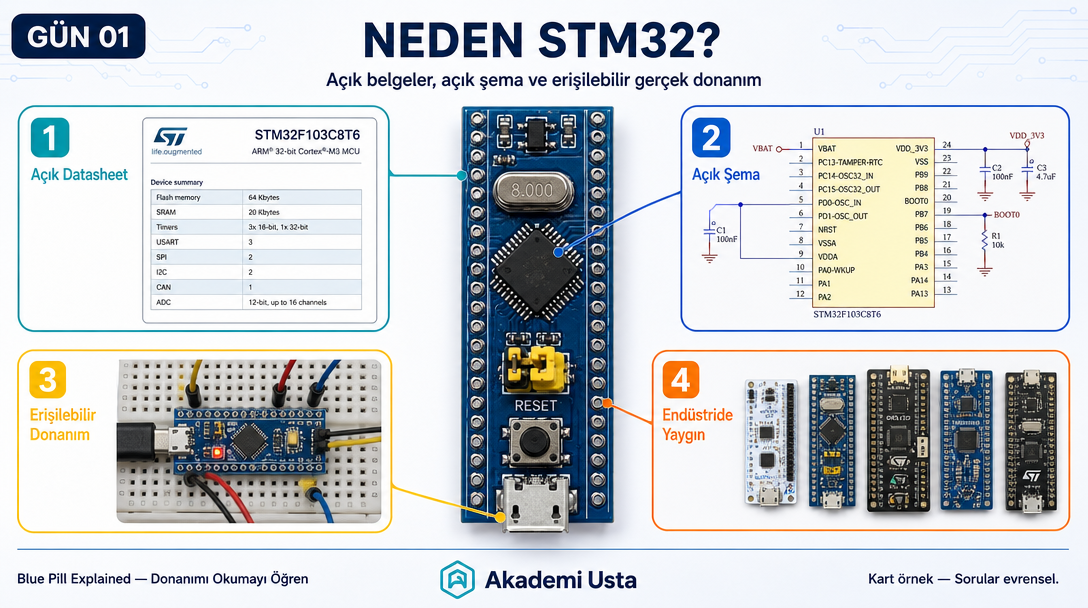
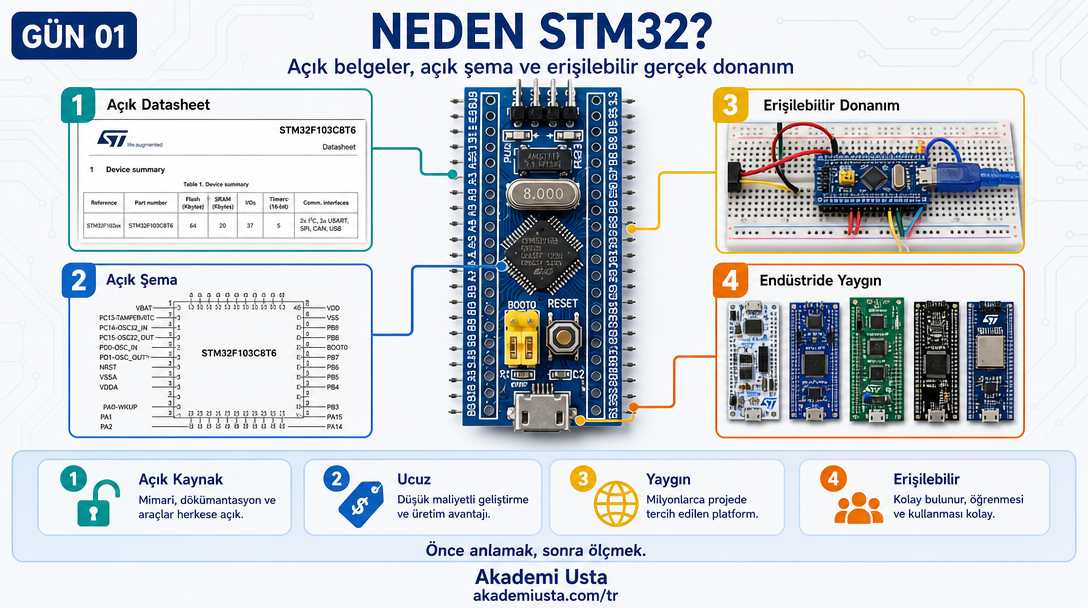
Complete Day 01: approve scene-03/scene-04, finalize footer standard
- Regenerate scene-02 referencing hero.png directly (previous version
  chained off an earlier scene and inherited a rendering defect where
  the top voltage-regulator IC looked like a flat/burnt blob)
- Generate and approve scene-03 (Blue Pill'in İçinde Ne Var?) and
  scene-04 (Tek Sayfalık Açık Şema), both referencing hero.png directly
- Land on the final footer format after two iterations: one single row,
  three parts evenly balanced — left "Akademi Usta", center "Önce
  anlamak, sonra ölçmek.", right "akademiusta.com/tr", text only, no
  logo (these slides get shared widely, the link is free advertising)
- Embed scene-03/04 into 01-neden-bu-kart/README.md
- Update master-style-prompt.md and the curriculum-slide-gen skill to
  reflect the converged rules: always reference approved-day01.png
  directly (never chain through a prior scene), single-row 3-part
  footer, Bölüm 01 as the reference implementation for future chapters

Day 01 is now fully complete: hero + 3 scenes, all approved.

diff --git a/01-neden-bu-kart/prompts/03-blue-pill-icinde-ne-var.md b/01-neden-bu-kart/prompts/03-blue-pill-icinde-ne-var.md
@@ -1,22 +1,29 @@
 # Scene: scene-03 — Blue Pill'in İçinde Ne Var?
 
-**Durum:** Henüz üretilmedi.
+**Durum:** Üretiliyor (2026-07-13).
 
-Kullanım: `visual-system/master-style-prompt.md` içindeki ana blok + referans görsel paragrafı + aşağıdaki SCENE bloğu.
+Kullanım: `visual-system/master-style-prompt.md` içindeki ana blok + referans görsel paragrafı (referans: `slides/02-neden-stm32.png`, sadece panel/numara/bağlantı çizgisi stili için) + aşağıdaki SCENE bloğu + `master-style-prompt.md`'deki "BOTTOM LAYOUT (MANDATORY)" bloğu (en sonda, harfiyen).
 
 ```text
 SCENE:
-Day label: "GÜN 01"
+Day label: "GÜN 01" — render with correct Turkish Ü.
 Main title: "BLUE PILL'İN İÇİNDE NE VAR?"
 Subtitle: "STM32F103C8T6 — ARM Cortex-M3, 72 MHz."
 
-Central hardware: close-up photo of the STM32F103C8T6 chip itself on the board, unmodified.
+Central hardware: real STM32F103C8T6 Blue Pill board photo, unmodified, vertical orientation
+(same board as previous approved slides).
 
-Four panels, each exactly one cohesive image with real spec text:
-- Orange: chip close-up captioned "ARM Cortex-M3 — 72 MHz"
-- Blue: a clean spec card captioned "64 KB Flash / 20 KB SRAM"
-- Yellow: a labeled icon row captioned "USB · CAN · SPI · I2C · USART"
-- Teal: a close-up of the chip's pin rows captioned "48 pin LQFP Paket"
+Four NUMBERED panels (large colored number badge 1,2,3,4 top-left of each panel), each connected
+with a thin matching-color line to a precise point on the board, each panel exactly one cohesive
+image plus caption with real spec text — do not invent spec numbers beyond what is listed here:
 
-No bottom band or footer on this slide. Do not invent spec numbers beyond what is listed here.
+1 (teal, connects to the chip): "ARM Cortex-M3 — 72 MHz" — close-up of the chip
+2 (blue, connects to the chip): "64 KB Flash / 20 KB SRAM" — a clean spec card
+3 (yellow, connects to the board's connector area): "USB · CAN · SPI · I2C · USART" — a labeled
+  icon row for these five communication interfaces
+4 (orange, connects to the chip's pin rows): "48 pin LQFP Paket" — close-up of the chip's pin rows
+
+Bottom section: use the mandatory bottom layout block (4 cards summarizing this scene's key
+takeaways — e.g. "Çekirdek", "Bellek", "İletişim", "Paket" — each with a simple icon and short
+Turkish title), then the centered tagline and text-only Akademi Usta footer.
 ```

diff --git a/01-neden-bu-kart/prompts/04-tek-sayfalik-acik-sema.md b/01-neden-bu-kart/prompts/04-tek-sayfalik-acik-sema.md
@@ -1,8 +1,6 @@
 # Scene: scene-04 — Tek Sayfalık Açık Şema
 
-**Durum:** Henüz üretilmedi.
-
-Kullanım: `visual-system/master-style-prompt.md` içindeki ana blok + referans görsel paragrafı + aşağıdaki SCENE bloğu.
+**Durum:** Üretiliyor (2026-07-13). Numaralı panel + zorunlu tek-satır footer standardına göre yazıldı, referans olarak doğrudan Hero kullanılıyor (zincirleme yok).
 
 ```text
 SCENE:
@@ -10,14 +8,17 @@ Day label: "GÜN 01"
 Main title: "TEK SAYFALIK AÇIK ŞEMA"
 Subtitle: "Karmaşık değil, ama gerçek."
 
-Central visual: a clean full-page schematic overview thumbnail of the Blue Pill board.
+Central visual: a clean, realistic full single-page schematic overview of the Blue Pill board
+(not the physical board photo this time — the topic is the schematic itself).
 
-Four panels, each exactly one cohesive image:
-- Orange: zoomed-out full single-page schematic, captioned "Tüm Şema Tek Sayfa"
-- Blue: close-up of the power supply block schematic labeled "RT8183-B", captioned "Power Supply Bloğu"
-- Yellow: close-up of the reset circuit schematic labeled "S1, R2, C2", captioned "Reset Bloğu"
-- Teal: a small handwritten-style designer note reading "Free Willy / Planet Earth / Solar System", captioned "Açık Kaynak Tasarımcı Notu"
-
-Bottom: a short bridge line to the next lesson: "Sonraki bölüm → Datasheet Nasıl Okunur?"
-No footer branding on this slide (reserved for hero).
+Four NUMBERED panels (large colored number badge 1,2,3,4 top-left of each panel), each connected
+with a thin matching-color line to a precise point on the central schematic, each panel exactly
+one cohesive image:
+1 (teal): "Tüm Şema Tek Sayfa" — zoomed-out view confirming the whole schematic fits one page
+2 (blue): "Power Supply Bloğu" — close-up of the power supply block schematic labeled "RT8183-B"
+3 (yellow): "Reset Bloğu" — close-up of the reset circuit schematic labeled "S1, R2, C2"
+4 (orange): "Açık Kaynak Tasarımcı Notu" — a small handwritten-style designer note reading
+  "Free Willy / Planet Earth / Solar System"
 ```
+
+Kullanım: `visual-system/master-style-prompt.md` içindeki ana blok + referans görsel paragrafı (Hero, sadece marka/panel/footer stili için — bu sahnede merkez görsel kart değil şema olduğu için "board rendering fidelity" notu uygulanmaz) + yukarıdaki SCENE bloğu + `master-style-prompt.md`'deki güncel "BOTTOM LAYOUT (MANDATORY)" bloğu (tek satır footer: sol="Akademi Usta", orta="Önce anlamak, sonra ölçmek.", sağ="akademiusta.com/tr").

diff --git a/visual-system/master-style-prompt.md b/visual-system/master-style-prompt.md
@@ -2,9 +2,10 @@
 
 Bu dosya, 12 bölümün tamamında **değişmeyen** ana stil promptudur. Her sahne promptu bu bloğu aynen başında taşır, altına sadece o sahneye özel `SCENE:` bölümünü ekler. Bu blok değişirse tüm seri boyunca tasarım kayması olur — değiştirmeden önce burada güncelle, tek tek promptlarda değil.
 
-Onaylanmış referanslar:
-- [`references/approved-day01.png`](references/approved-day01.png) — Bölüm 01 Hero görseli (2026-07-13 onaylandı). Genel görsel kimlik + hero'ya özel 6-soru alt bandı için referans.
-- [`../01-neden-bu-kart/slides/02-neden-stm32.png`](../01-neden-bu-kart/slides/02-neden-stm32.png) — Numaralı panel (1-4) standardı için referans (hero DIŞINDAKİ tüm sahnelerde bu kullanılır). **Dikkat:** bu dosya, aşağıdaki "Alt Bölüm — Zorunlu" kuralından ÖNCE üretildi, eski 3 parçalı footer'ı kullanıyor — sadece panel/numara/bağlantı çizgisi stili için referans al, alt bölümü/footer'ı değil.
+Onaylanmış referans:
+- [`references/approved-day01.png`](references/approved-day01.png) — Bölüm 01 Hero görseli (2026-07-13 onaylandı). **Tek referans kaynağı budur.**
+
+**Önemli kural (2026-07-13'te eklendi):** Her sahne HER ZAMAN doğrudan Hero'yu (`approved-day01.png`) referans alır — bir önceki üretilen sahneyi değil. Scene-02 → Scene-03 zincirlemesi denendi ve küçük bir render kusuru (üstteki regülatör IC'si "yanmış" gibi göründü) bu şekilde sahneden sahneye taşındı, ikisi de silinip yeniden üretildi. Referans zinciri kurma — her zaman kaynağa dön.
 
 ```text
 Create a professional Turkish technical education infographic slide for the
@@ -101,17 +102,20 @@ Inside the band:
 - Cards must be perfectly aligned and evenly spaced.
 - Use the same layout style as the approved Day 01 slide.
 
-Below the cards:
-Center the text:
-"Önce anlamak, sonra ölçmek."
+Below the cards, ONE single footer row with three parts, evenly balanced left/center/right:
+- Bottom-left: "Akademi Usta"
+- Bottom-center: "Önce anlamak, sonra ölçmek."
+- Bottom-right: "akademiusta.com/tr"
 
-Footer:
-Bottom center:
-"Akademi Usta"
+All three in the same bold navy font, same baseline, clearly legible — this slide will be
+shared/copied widely, the link must always be readable. Balance the whole bottom section so the
+card row and this single footer row feel evenly spaced with matching left/right margins — no
+lopsided corners.
 
 TEXT ONLY.
 Do NOT generate any logo, icon, emblem, shield or symbol for Akademi Usta.
-Use only the words "Akademi Usta" in a clean bold font.
+Use only the words "Akademi Usta", "Önce anlamak, sonra ölçmek.", and "akademiusta.com/tr" in a
+clean bold font, all on one single row.
 
 The bottom section must always look balanced, complete and professional.
 Never leave empty space.

diff --git a/.claude/skills/curriculum-slide-gen/SKILL.md b/.claude/skills/curriculum-slide-gen/SKILL.md
@@ -9,6 +9,8 @@ Generates on-brand infographic slides for the `blue-pill-explained` STM32 curric
 
 System agreed with the user 2026-07-13: **lightweight**, no parallel `day-XX/` tree, no new build scripts, no HTML/Canvas text layer — until a specific escape-hatch threshold is hit (see below).
 
+**Bölüm 01 (`01-neden-bu-kart/`) is the first fully-completed chapter under this system — 4 approved images (hero + 3 scenes) — and is the reference implementation.** When starting a new chapter, look at its `brief.json`/`scenes.json`/`prompts/` as the concrete example, not just this document.
+
 ## File layout (per chapter, inside the existing numbered chapter folder)
 
 ```
@@ -31,14 +33,17 @@ visual-system/
 ├── layout-rules.md         (measurable layout/panel/color/timing rules)
 ├── terminology.md          (fixed Turkish/English term glossary — keep wording identical across all 12 days)
 └── references/
-    └── approved-day01.png  (attach this as the visual reference image on every generation call)
+    └── approved-day01.png  (attach this as the visual reference image on EVERY generation call —
+                             always this file, never a previously-generated scene. Chaining
+                             references caused a rendering defect to propagate across scenes on
+                             2026-07-13, see "Known failure modes" below.)
 ```
 
 ## Prerequisites
 
 - fal.ai API key in macOS Keychain: `security find-generic-password -s "FAL_KEY" -w`
 - Never echo the key to stdout/logs/files. Retrieve it inline in the same command that uses it, `unset` it after.
-- Base photo for anything showing the bare board: `STM serisi/blue-pill-card-crop-preview.png` (the real, unedited Blue Pill board photo — this is what makes pin labels/chip text trustworthy on hero-style shots). For scenes centered on something else (chip close-up, schematic, datasheet), the reference image is `visual-system/references/approved-day01.png` (style only, per the "do not copy content" rule in `master-style-prompt.md`).
+- Reference image for every generation call, no exceptions: `visual-system/references/approved-day01.png`. Never reference a previously-generated scene instead of this file — see "Known failure modes."
 
 ## Endpoint
 
@@ -79,7 +84,8 @@ Body:
 - Fixed color→function mapping: orange = belge/datasheet, blue = donanım bileşeni yakın çekim, yellow = kontrol/buton/jumper, teal = ölçüm/test.
 - Chip name is always `STM32F103C8T6` — verify it didn't get mangled (seen failure: "GTM32").
 - Use `terminology.md`'s exact wording for recurring concepts (Besleme, Clock, Reset, Boot, Peripheral'lar, Debug, Datasheet, Reference Manual) — don't let a later chapter silently switch to a different Turkish/English mix for the same concept.
-- **Never leave the bottom section/footer to the model's own judgment.** Always append the exact "BOTTOM LAYOUT (MANDATORY)" block from `master-style-prompt.md` at the end of every prompt: a full-width 4-card band (6 on hero), centered "Önce anlamak, sonra ölçmek.", and a **text-only** "Akademi Usta" footer. Explicitly forbid the model from drawing its own logo/emblem for Akademi Usta — left unconstrained, it invents a different one each time.
+- **Never leave the bottom section/footer to the model's own judgment.** Always append the exact "BOTTOM LAYOUT (MANDATORY)" block from `master-style-prompt.md` at the end of every prompt: a full-width 4-card band (6 on hero), then **one single footer row, three parts, evenly balanced**: bottom-left "Akademi Usta", bottom-center "Önce anlamak, sonra ölçmek.", bottom-right "akademiusta.com/tr" — same bold navy font, same baseline. **Text only, no logo/emblem** (left unconstrained, the model invents a different Akademi Usta logo every time). This exact 3-part single-row footer is what's approved on all 4 of Bölüm 01's images (2026-07-13) — went through two earlier iterations (stacked two-line footer, then centered-only) before landing here; don't regress to those.
+- **Always reference `approved-day01.png` directly — never a previously-generated scene.** Chaining references (scene N+1 using scene N as its reference image) let a rendering defect compound across generations.
 
 ## Escape hatch — when to stop doing this by hand and build the two-layer (AI + HTML/Canvas text) system instead
 
@@ -97,3 +103,4 @@ Until then, GPT Image 2 generates the text directly — it was accurate enough i
 
 - Pure text-to-image (no reference photo) → the model hallucinates fake pin labels and misspells the chip name. Always edit from a real photo.
 - fal.ai `gpt-image-1.5` (not `gpt-image-2`) and direct OpenAI `gpt-image-1` both produced visibly garbled Turkish captions/badges in side-by-side tests — confirmed worse than `gpt-image-2`. If the user names an exact model, use that literal name/search it first — don't substitute your own guess from training knowledge (this exact mistake cost several wasted paid generations on 2026-07-13; `gpt-image-2` postdates this assistant's training cutoff and was missed on the first few passes).
+- **Referencing a previously-generated scene instead of the original approved hero caused a defect to propagate.** Scene-02 referenced the hero, but its top-area voltage-regulator IC rendered as a flat dark blob instead of a legible component (compare hero's clearly-detailed regulator vs. scene-02's). Scene-03 then referenced scene-02 (not the hero) and inherited the same flattened-looking regulator. Both were deleted and regenerated — root-caused to reference chaining, so the rule is now: every scene references `approved-day01.png` directly, never another generated scene, so a single bad generation can't compound.

diff --git a/01-neden-bu-kart/README.md b/01-neden-bu-kart/README.md
@@ -45,6 +45,8 @@ Ve bu soruları sadece STM32 için değil — Apple, Qualcomm, Intel, ESP32 içi
 
 ## Neden Blue Pill?
 
+![Blue Pill'in içinde ne var? — çekirdek, bellek, iletişim, paket](slides/03-blue-pill-icinde-ne-var.png)
+
 ![STM32F103 Ailesi](images/family-table.png)
 
 Blue Pill, STM32F103C8T6 işlemcisi üzerine kurulu minimal bir geliştirme kartıdır.
@@ -68,6 +70,8 @@ Bu kart neden ideal?
 ---
 
 ## Şema açık kaynak mu?
+
+![Tek sayfalık açık şema — power supply, reset ve tasarımcı notu](slides/04-tek-sayfalik-acik-sema.png)
 
 Evet.
 